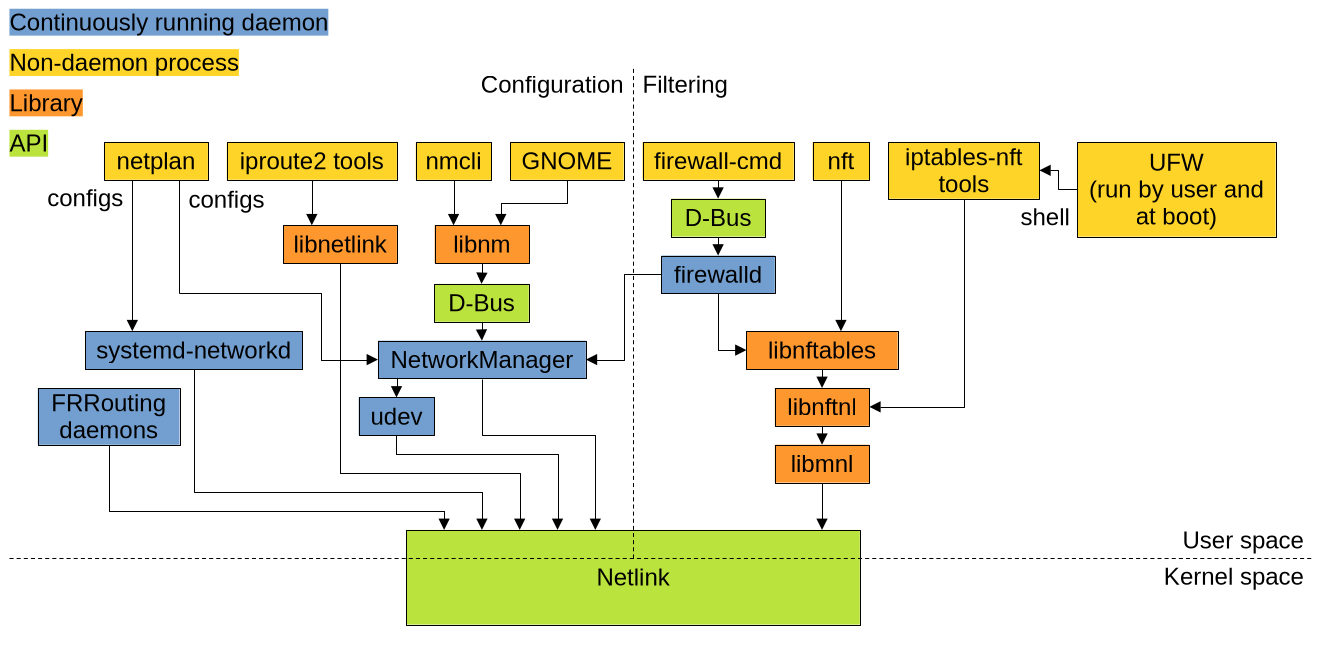
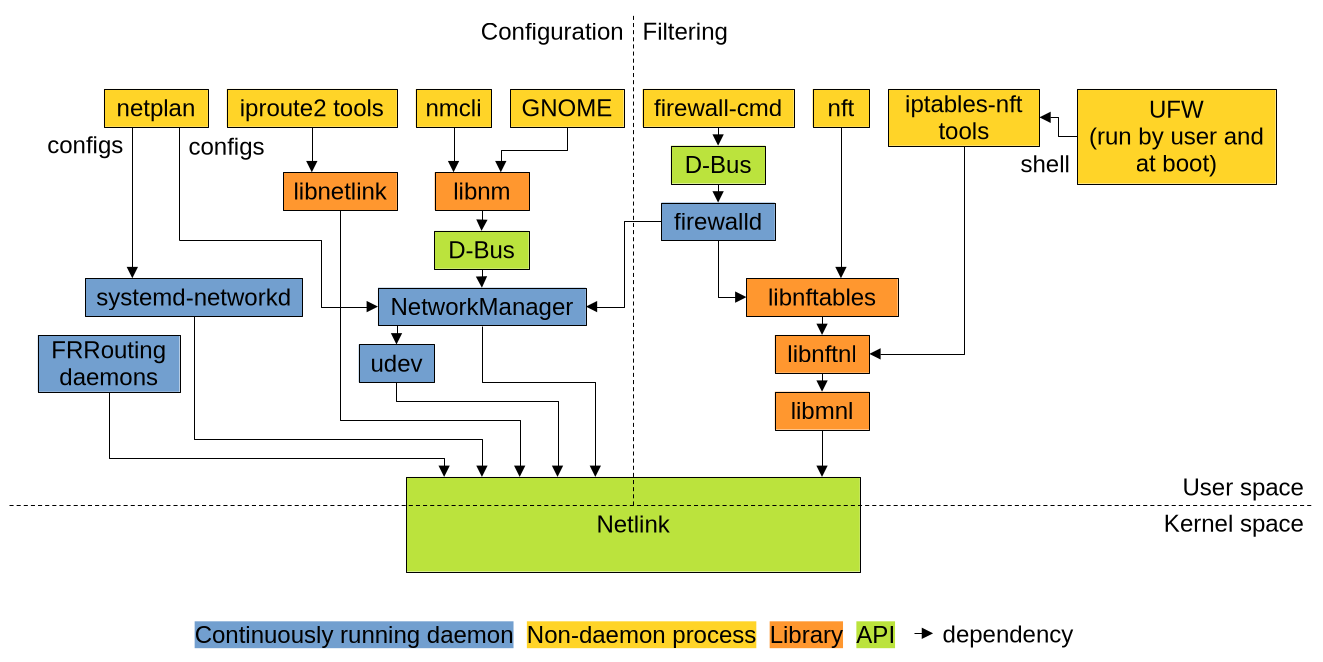
feat: add dependency to legend in networking overview

diff --git a/articles/31_linux_networking/linux_networking.md b/articles/31_linux_networking/linux_networking.md
@@ -81,7 +81,7 @@ Don't worry, I'll go over the entire diagram in detail.<br />
 Do notice that the Linux userspace networking stack is quite well divisible into *configuration* and *filtering*.
 Configuration concerns itself with, e.g., setting up links and routes.
 Filtering, on the other hand, handles, e.g., firewalling and NAT-ing.
-<HalfImage id="fig:overview" num={2} caption="Linux' userspace networking stack. The kernel internals and less relevant dependencies are omitted. Furthermore, only the most relevant and representative subset of all tools is shown, i.e., there are more network managers than just systemd-networkd and NetworkManager." full="true" src="./stack.webp" />
+<HalfImage id="fig:overview" num={2} caption="Linux' userspace networking stack. The kernel internals and less relevant dependencies are omitted. Furthermore, only the most relevant and representative subset of all tools is shown, i.e., there are more network managers than just systemd-networkd and NetworkManager. Dependencies via config files and through shell commands are explicitly labeled." full="true" src="./stack.webp" />
 
 ## Configuration Tools
 Beginning with [figure 2](#fig:overview)'s left half, there is a zoo of network configuration tools.